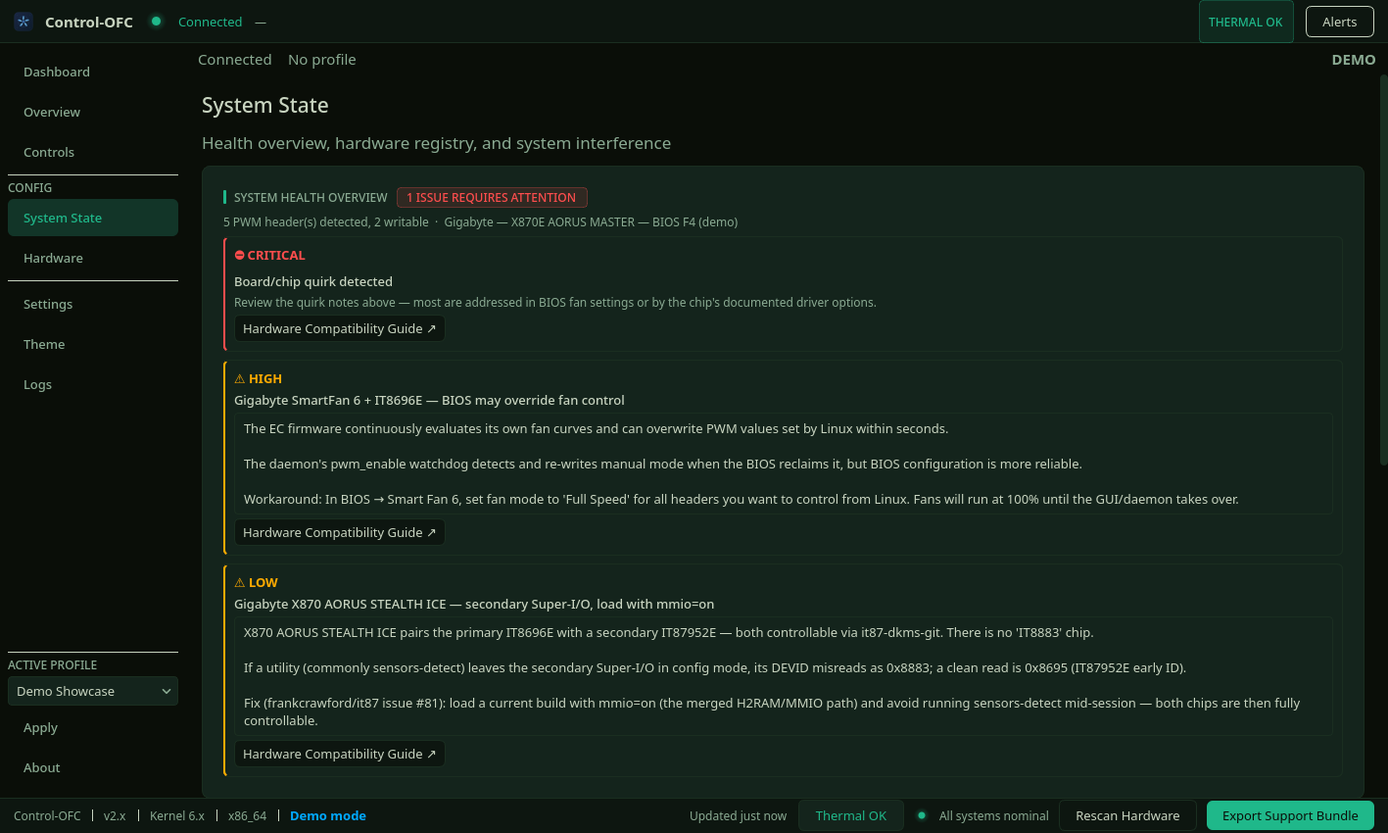
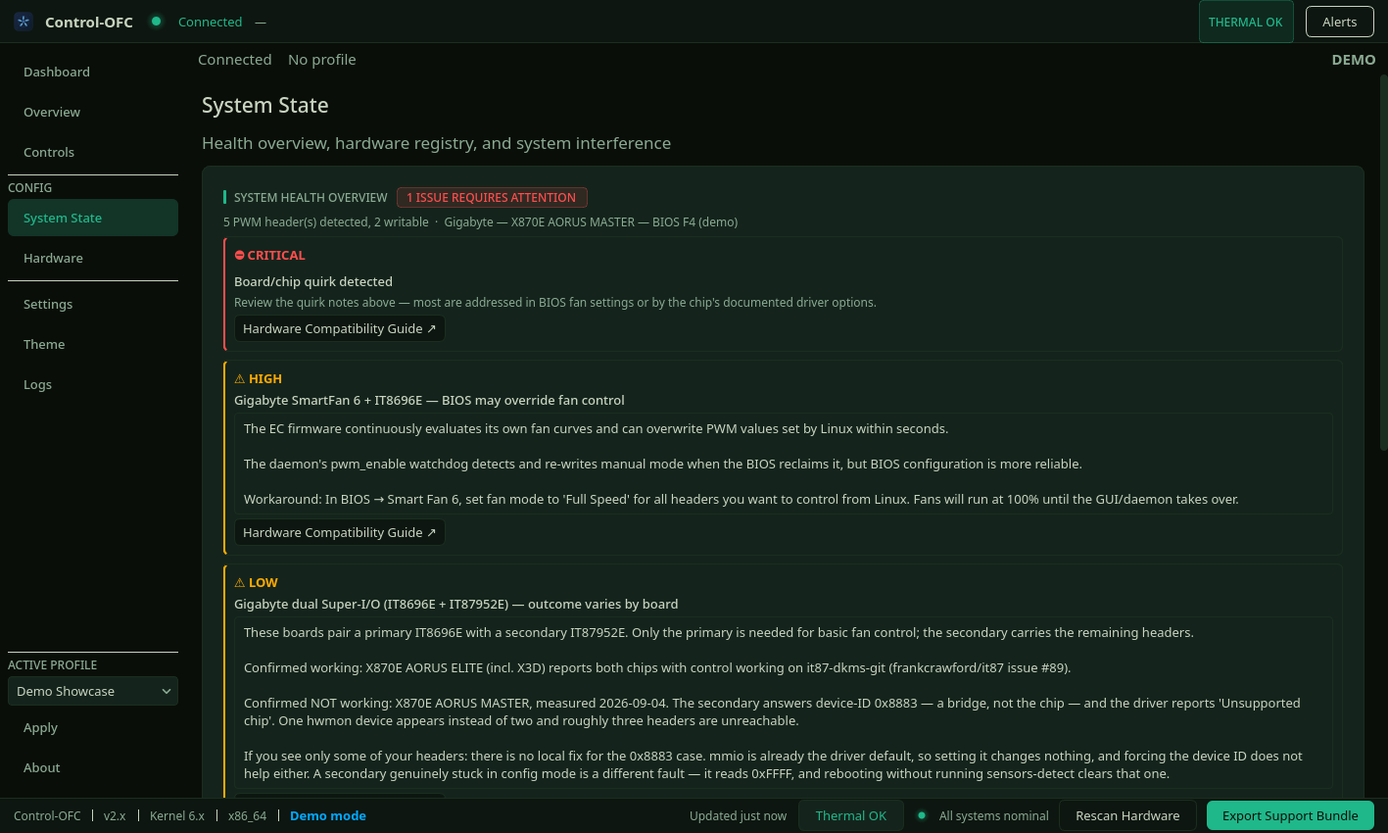
release: v2.57.6 — honest chip guidance for the X870E dual Super-I/O
Batches G and H of the /ofc:audit register triage (DEC-326). Text only: no
floor, threshold, route, capability flag or control behaviour changes.

The Hardware page no longer tells X870E owners their missing fan headers are a
fixable misconfiguration. The in-app guidance for device-ID 0x8883 said the
secondary Super-I/O was "stuck in config mode", recoverable with mmio=on;
measured on the affected hardware both halves are false — mmio is already the
driver default, and the upstream issue cited as the resolution is still open,
its reporter having applied exactly that advice and still having three fans and
a water pump non-functional. The entry now says there is no local fix, and
keeps the genuinely recoverable 0xFFFF case as the separate fault it is.

The dual-Super-I/O quirk names both outcomes rather than promising the good
one: X870E AORUS ELITE works with both chips controllable, X870E AORUS MASTER
cannot reach its secondary at all.

manual/hardware-troubleshooting.md's "only 5 of 8 headers show up" section now
splits three causes with a dmesg discriminator instead of a five-step remedy
that could not work on the board it named; docs/19, docs/21 and docs/22 stop
citing it87 issue #81 as a resolution. Corrections are bounded by board
pairing, not by family.

screenshots/auto/04_system_state.png recaptured for the corrected quirk card.

Pairs with control-ofc-daemon >= v2.11.0 (unchanged floor); ships alongside
daemon v2.35.3, which carries the daemon-side half.
[…]

Changed region(s): [[0.1863, 0.7953, 0.9315, 0.9482], [0.1863, 0.7035, 0.8694, 0.7647], [0.9936, 0.52, 1.0, 0.5812]]

diff --git a/README.md b/README.md
@@ -1,6 +1,6 @@
 # Control-OFC GUI
 
-**Latest release:** v2.57.5 — 2026-09-04. Pairs with `control-ofc-daemon` ≥ v2.11.0 (v2.16.0 or newer for the Settings ▸ Daemon Configuration card, v2.17.0 for the Dashboard's fan-control-engine health banner, v2.18.0 for Rescan Hardware to also look for an OpenFan controller, v2.21.0 for the Controls page's "Not controlled" badge, v2.22.0 for the live output figure on each Controls card and the Dashboard's unresolved-control warning, v2.23.0 for removing a profile search directory, v2.24.0 for the thermal-forcing verify refusal shown as a soft notice, v2.24.2 for the subsystem age shown as data freshness rather than poll time, v2.25.0 for the daemon to also distrust the widened `nct67xx` `CPUTIN` set the GUI warns about and to quarantine an implausibly-low CPU reading, v2.26.0 for the thermal ladder's forced duties to act as floors over profile output rather than replacements for it and for the emergency trip point to be derived per machine from the CPU's own reported ceiling, v2.27.0 for fan telemetry to be reported only where it was actually measured, v2.28.0 for per-channel PWM header roles and pump-safe fan identify; all stand down gracefully on older daemons). The v2.26.0 and v2.27.0 behaviours need no GUI support — nothing on the wire changed. The trip point is reported in a field the GUI already renders verbatim, and `rpm` was already optional with a fan's absence already meaning "not currently readable". v2.50.0 consumes the v2.28.0 `control.header_roles` capability: where the daemon classifies a header as a pump, the Fan Wizard says the pump's speed will change rather than that it will stop — and against any older daemon it keeps the "stop" wording, because that is what an older daemon actually does. v2.51.0 goes further and *writes* that capability: Configure AIO asks which header the pump is connected to and records it via `POST /config/header-role`, which is the only way a motherboard-connected AIO can be set up at all — its pump hangs off the Super-I/O chip like any other fan, so nothing can infer it. The same release offers three pump strategies (Automatic, Fixed speed, Custom curve) in place of fixed presets only, and retracts the claim that a pump must run at a constant speed. Against a pre-2.28.0 daemon the role step is hidden and the flow behaves exactly as v2.50.0 did. v2.52.0 adds **Characterise PWM Response** on the System State page — a deeper diagnostic beside the existing quick "Test PWM Control", which holds a header at a series of duties and reports **command acceptance, PWM readback and physical fan response as three separate verdicts**. That separation is the feature: a pump whose firmware drives itself during startup reports a perfectly correct PWM readback while its speed ignores the command, and a single pass/fail would call that a broken fan. It needs daemon v2.29.0 or newer and is hidden entirely without it, so against an older daemon this release behaves exactly as v2.51.0 did. v2.53.0 rebuilds the **Logs** page as a List + Inspector workflow: an activity strip showing event volume over time (click a column to filter to that slice), a dense two-line event list, newest first, with repeated events collapsed into one row, and a tabbed inspector holding the event's detail, its raw stored record, and the Daemon Status / Controller / GPU probes and system journal that used to sit in a strip along the bottom. Events now carry structured fields where the emitter genuinely had them — an alert's component, an exception's type, a rescan's header count — so related events can be correlated on something real rather than a source tag. **This release needs nothing new from the daemon**: no API, schema or contract change, and your saved log filters carry over. v2.53.1 fixes three defects found by an audit of that work: Characterise PWM Response could render a *different* header's sweep as this header's result, because the daemon serves one run at a time and the dialog never checked whose it was; the app's minimum window size was set to a width no page has ever fitted in, which is what squeezed the Logs toolbar's search box down to "Sea…" (**the minimum window width therefore grows to roughly 1400px**); and a restore the daemon deliberately skipped was reported as "Restoring the original speed failed — re-activate your profile", which is precisely the wrong advice when thermal safety is what skipped it. The last of those reads the daemon's new `restore_outcome` field and so words each reason properly against v2.30.0 or newer, keeping the previous message against anything older. v2.54.0 records a motherboard-connected cooler as one **cooling device** — pump header, radiator fans and temperature source saved as a named assembly rather than three coincidentally related channels — and stops the GUI re-deriving the pump's safety floor for itself: against a daemon ≥ v2.31.0 each header now reports the duty floor the daemon will actually enforce and whether it may be stopped at all, and the client-side reconstruction becomes a fallback for older daemons. **No floor changes** — the daemon ships generic device policies only, whose pump floor is the 30 % constant it already enforced. Naming a header as a cooler's pump confers no protection on its own; that is still the pump **role**, which Configure AIO assigns in the same flow. Against a pre-v2.31.0 daemon the whole surface is simply absent and nothing else changes. v2.55.0 adds the groundwork for **validation sessions** — a recording of what a cooler actually did, with the evidence to back it up: telemetry sampled once a second, a timeline of the things the daemon can genuinely observe (a profile activating, the BIOS taking a header back, a suspend, a thermal failsafe), and a typed summary that distinguishes *passed*, *observed*, *not tested* and *unavailable* rather than collapsing them into a verdict. It can also run the existing PWM verify and characterisation for you and attach their results as evidence. It shipped **without a user interface, deliberately** — the model, the API client and the JSON/CSV serializers only; nothing on any page changed, so upgrading was safe and invisible. v2.56.0 is the interface. The **Hardware** page becomes the place you see, understand and test your cooling hardware: a configured cooler now appears as one assembly — pump, radiator fans, control sensor, strategy, status — instead of a set of unrelated hwmon channel names, and every PWM header gets a card with its live values and an expandable engineering view (capabilities, kernel label, role, the duty floor the daemon enforces, whether stopping is prohibited). The PWM control test and the response characterisation move here from System State, which keeps them as an advanced shortcut — both pages run the same implementation. Characterisation now also reports **response and settling time** per step. Validation and startup/lifecycle recording get the dialog they were built for, with a findings summary that keeps *passed*, *observed*, *not tested* and *unavailable* distinct, and CSV/JSON export. **The most useful single change is that requested PWM and hardware readback are now shown as two numbers rather than one** — that is what lets you tell a failed write from a BIOS/EC reclaim from a device doing its own internal control, and it needs daemon v2.33.0 for the commanded value; against anything older the requested figure is labelled approximate rather than presented as fact. Nothing on this page writes PWM: every test runs inside the daemon, which keeps its lease, the pump floor and thermal protection in force throughout. v2.57.0 teaches the **Fan Wizard** what a liquid cooler is. A new step runs *before* any fan is stopped: it lists everything already known to be part of the cooling stack — a configured cooler's pump, radiator and auxiliary fans, plus any header carrying a pump or radiator role — each ticked to be left alone, and each untickable if you do want to identify it. It also lets you **name the pump**, which is the part that matters on most desktop boards: many Super-I/O chips publish no header names at all, so nothing — not the daemon, not this GUI — can work out which channel the pump is on, and until you say so every header looks identical and the wizard would stop your pump looking for it. Naming it here assigns the pump role and records the cooler's layout before the first fan is touched. The step appears whenever the daemon supports header roles (v2.28.0+), **including when nothing looks like an AIO yet** — that is deliberate, because that is exactly the machine that cannot detect one. The same release stops the Controls page treating a cooler's fans as loose channels: assigning a pump or radiator fan to an unrelated curve now names the device it belongs to and asks first. It is a soft check on both ways of adding a member, not a lock — a cooling device is a description, and your pump's real protection comes from its **role**, which applies whatever curve the fan is assigned to. GUI-only: no daemon release, nothing on the wire changed. v2.57.1 changes no shipped GUI code at all: it is the contract document, a changelog entry and one test, published as the GUI half of `control-ofc-daemon` v2.33.1 (DEC-320). That daemon release fixed two defects the GUI was on the receiving end of — `POST /config/cooling-device` rejected the OpenFan radiator fans this GUI's own picker offers, so the Fan Wizard's AIO step could not be completed with one on any machine with motherboard fan headers; and a validation session at its sample cap was written and then became permanently unreadable from two cooling-device members upward. **Both were daemon-side — the GUI was already correct and the daemon was rejecting what it offered — so upgrading the GUI alone fixes neither; take daemon v2.33.1.** The one new test pins the premise rather than a fix: if the radiator picker ever stops offering OpenFan outputs, the daemon's per-source membership check becomes dead code, and that test is what says so. The daemon floor is unchanged at v2.11.0. v2.57.2 and v2.57.3 change no shipped GUI code either: both are the contract document, a changelog entry and — in v2.57.3 — one new cross-repo parity oracle, published as the GUI half of `control-ofc-daemon` v2.34.0 and v2.35.0. The daemon changes they record are ones this GUI was already correct about. v2.34.0 (DEC-321) stopped a user-assigned pump role vanishing from the daemon's own `runtime.toml` unnoticed, and added a `runtime_config_degraded` field on `/status` and `/poll` saying so — **this release does not render it yet**; it also serialised `POST`/`DELETE /config/*` daemon-side, which matters because the Configure-AIO flow posts a header role and a cooling device in one user action, and against an older daemon the second write could drop the first. The GUI already issued those strictly sequentially, so it never raced itself, and `docs/08` now records that sequencing as load-bearing rather than incidental. v2.35.0 (DEC-322) made `stop_permitted` mean what the contract always said it meant — `!header_is_pump_protected` — after daemons 2.31.0–2.34.0 derived it from the cooling *device's* policy instead, advertising a radiator fan as unstoppable while identify stopped it and, in the dangerous direction, promising protection to a `pump_member` that had no pump role and was then driven to 0. **No GUI change was needed**: `pump_protection.py` already read the field as the semantics v2.35.0 restores. v2.57.3 adds the third cross-repo golden oracle, `header_role_classification.json`, which gates this GUI's hand-mirrored copy of the daemon's pump-label classification against the daemon's own — the two agreed, and what was missing was the gate: if the daemon learns a new pump-classifying label and this copy does not, the reconstruction returns "not protected" and the Fan Wizard offers to stop a real pump. **Both defects were daemon-side, so upgrading the GUI alone fixes neither — take daemon v2.35.0.** v2.57.4 is the same shape again — the contract document and a changelog entry, no shipped GUI code — published as the GUI half of `control-ofc-daemon` v2.35.1 (DEC-323), which stopped a validation session outliving the characterisation it had started. Ending a session used to finalise the record and leave the sweep running, still driving the header and still holding the profile engine’s write-pause for up to five minutes; the daemon now cancels that sweep, fenced on the run the session itself started, so a characterisation you began outside the session is never aborted. **No GUI change was needed**: the characterisation view already words a `cancelled` run as a cancellation rather than a hardware failure, which is exactly what it now is. Two things a client should know are recorded in `docs/08`: that run reports `cancelled` rather than `complete`, with **no capability flag separating it from the older behaviour**, and it stays `running` for up to one settle (15 s) after the session has already returned its summary, because the cancel is cooperative; and the two session-finalise routes can now answer `500 internal_error`, which means the session is **still installed and still recording** rather than gone. **The fixes are daemon-side, so upgrading the GUI alone changes nothing — take daemon v2.35.1.** The daemon floor is unchanged at v2.11.0. v2.57.5 is the first release since v2.57.0 to change shipped GUI code, and it is bug fixes only (DEC-325): the **Configure AIO** flow seeded its curve calibration from hardware detection rather than from the sensor you actually picked, so choosing CPU package on a machine that *also* has a coolant sensor applied the coolant calibration to a CPU-bound curve — measured at **100% fan output by 55 °C** on the radiator curve, i.e. maximum fans during ordinary desktop use; the **Logs** activity strip drew no keyboard focus ring while the feed was empty, which is every fresh launch, despite being fully operable from the keyboard; and activating a related event could jump somewhere unrelated or raise inside a Qt callback, because the list was wired to navigate on both `itemActivated` and `itemClicked` and the navigation rebuilds that very list. Related events are now activated with **Enter or a double-click** (single click still works on KDE Plasma and any desktop that opens items that way). The rest of the release is test coverage for six call sites whose extracted rules were tested and whose only production caller was not (DEC-324). No floor, threshold, route or capability change; the daemon floor is unchanged at v2.11.0. See [`CHANGELOG.md`](CHANGELOG.md) for the full history.
+**Latest release:** v2.57.6 — 2026-09-04. Pairs with `control-ofc-daemon` ≥ v2.11.0 (v2.16.0 or newer for the Settings ▸ Daemon Configuration card, v2.17.0 for the Dashboard's fan-control-engine health banner, v2.18.0 for Rescan Hardware to also look for an OpenFan controller, v2.21.0 for the Controls page's "Not controlled" badge, v2.22.0 for the live output figure on each Controls card and the Dashboard's unresolved-control warning, v2.23.0 for removing a profile search directory, v2.24.0 for the thermal-forcing verify refusal shown as a soft notice, v2.24.2 for the subsystem age shown as data freshness rather than poll time, v2.25.0 for the daemon to also distrust the widened `nct67xx` `CPUTIN` set the GUI warns about and to quarantine an implausibly-low CPU reading, v2.26.0 for the thermal ladder's forced duties to act as floors over profile output rather than replacements for it and for the emergency trip point to be derived per machine from the CPU's own reported ceiling, v2.27.0 for fan telemetry to be reported only where it was actually measured, v2.28.0 for per-channel PWM header roles and pump-safe fan identify; all stand down gracefully on older daemons). The v2.26.0 and v2.27.0 behaviours need no GUI support — nothing on the wire changed. The trip point is reported in a field the GUI already renders verbatim, and `rpm` was already optional with a fan's absence already meaning "not currently readable". v2.50.0 consumes the v2.28.0 `control.header_roles` capability: where the daemon classifies a header as a pump, the Fan Wizard says the pump's speed will change rather than that it will stop — and against any older daemon it keeps the "stop" wording, because that is what an older daemon actually does. v2.51.0 goes further and *writes* that capability: Configure AIO asks which header the pump is connected to and records it via `POST /config/header-role`, which is the only way a motherboard-connected AIO can be set up at all — its pump hangs off the Super-I/O chip like any other fan, so nothing can infer it. The same release offers three pump strategies (Automatic, Fixed speed, Custom curve) in place of fixed presets only, and retracts the claim that a pump must run at a constant speed. Against a pre-2.28.0 daemon the role step is hidden and the flow behaves exactly as v2.50.0 did. v2.52.0 adds **Characterise PWM Response** on the System State page — a deeper diagnostic beside the existing quick "Test PWM Control", which holds a header at a series of duties and reports **command acceptance, PWM readback and physical fan response as three separate verdicts**. That separation is the feature: a pump whose firmware drives itself during startup reports a perfectly correct PWM readback while its speed ignores the command, and a single pass/fail would call that a broken fan. It needs daemon v2.29.0 or newer and is hidden entirely without it, so against an older daemon this release behaves exactly as v2.51.0 did. v2.53.0 rebuilds the **Logs** page as a List + Inspector workflow: an activity strip showing event volume over time (click a column to filter to that slice), a dense two-line event list, newest first, with repeated events collapsed into one row, and a tabbed inspector holding the event's detail, its raw stored record, and the Daemon Status / Controller / GPU probes and system journal that used to sit in a strip along the bottom. Events now carry structured fields where the emitter genuinely had them — an alert's component, an exception's type, a rescan's header count — so related events can be correlated on something real rather than a source tag. **This release needs nothing new from the daemon**: no API, schema or contract change, and your saved log filters carry over. v2.53.1 fixes three defects found by an audit of that work: Characterise PWM Response could render a *different* header's sweep as this header's result, because the daemon serves one run at a time and the dialog never checked whose it was; the app's minimum window size was set to a width no page has ever fitted in, which is what squeezed the Logs toolbar's search box down to "Sea…" (**the minimum window width therefore grows to roughly 1400px**); and a restore the daemon deliberately skipped was reported as "Restoring the original speed failed — re-activate your profile", which is precisely the wrong advice when thermal safety is what skipped it. The last of those reads the daemon's new `restore_outcome` field and so words each reason properly against v2.30.0 or newer, keeping the previous message against anything older. v2.54.0 records a motherboard-connected cooler as one **cooling device** — pump header, radiator fans and temperature source saved as a named assembly rather than three coincidentally related channels — and stops the GUI re-deriving the pump's safety floor for itself: against a daemon ≥ v2.31.0 each header now reports the duty floor the daemon will actually enforce and whether it may be stopped at all, and the client-side reconstruction becomes a fallback for older daemons. **No floor changes** — the daemon ships generic device policies only, whose pump floor is the 30 % constant it already enforced. Naming a header as a cooler's pump confers no protection on its own; that is still the pump **role**, which Configure AIO assigns in the same flow. Against a pre-v2.31.0 daemon the whole surface is simply absent and nothing else changes. v2.55.0 adds the groundwork for **validation sessions** — a recording of what a cooler actually did, with the evidence to back it up: telemetry sampled once a second, a timeline of the things the daemon can genuinely observe (a profile activating, the BIOS taking a header back, a suspend, a thermal failsafe), and a typed summary that distinguishes *passed*, *observed*, *not tested* and *unavailable* rather than collapsing them into a verdict. It can also run the existing PWM verify and characterisation for you and attach their results as evidence. It shipped **without a user interface, deliberately** — the model, the API client and the JSON/CSV serializers only; nothing on any page changed, so upgrading was safe and invisible. v2.56.0 is the interface. The **Hardware** page becomes the place you see, understand and test your cooling hardware: a configured cooler now appears as one assembly — pump, radiator fans, control sensor, strategy, status — instead of a set of unrelated hwmon channel names, and every PWM header gets a card with its live values and an expandable engineering view (capabilities, kernel label, role, the duty floor the daemon enforces, whether stopping is prohibited). The PWM control test and the response characterisation move here from System State, which keeps them as an advanced shortcut — both pages run the same implementation. Characterisation now also reports **response and settling time** per step. Validation and startup/lifecycle recording get the dialog they were built for, with a findings summary that keeps *passed*, *observed*, *not tested* and *unavailable* distinct, and CSV/JSON export. **The most useful single change is that requested PWM and hardware readback are now shown as two numbers rather than one** — that is what lets you tell a failed write from a BIOS/EC reclaim from a device doing its own internal control, and it needs daemon v2.33.0 for the commanded value; against anything older the requested figure is labelled approximate rather than presented as fact. Nothing on this page writes PWM: every test runs inside the daemon, which keeps its lease, the pump floor and thermal protection in force throughout. v2.57.0 teaches the **Fan Wizard** what a liquid cooler is. A new step runs *before* any fan is stopped: it lists everything already known to be part of the cooling stack — a configured cooler's pump, radiator and auxiliary fans, plus any header carrying a pump or radiator role — each ticked to be left alone, and each untickable if you do want to identify it. It also lets you **name the pump**, which is the part that matters on most desktop boards: many Super-I/O chips publish no header names at all, so nothing — not the daemon, not this GUI — can work out which channel the pump is on, and until you say so every header looks identical and the wizard would stop your pump looking for it. Naming it here assigns the pump role and records the cooler's layout before the first fan is touched. The step appears whenever the daemon supports header roles (v2.28.0+), **including when nothing looks like an AIO yet** — that is deliberate, because that is exactly the machine that cannot detect one. The same release stops the Controls page treating a cooler's fans as loose channels: assigning a pump or radiator fan to an unrelated curve now names the device it belongs to and asks first. It is a soft check on both ways of adding a member, not a lock — a cooling device is a description, and your pump's real protection comes from its **role**, which applies whatever curve the fan is assigned to. GUI-only: no daemon release, nothing on the wire changed. v2.57.1 changes no shipped GUI code at all: it is the contract document, a changelog entry and one test, published as the GUI half of `control-ofc-daemon` v2.33.1 (DEC-320). That daemon release fixed two defects the GUI was on the receiving end of — `POST /config/cooling-device` rejected the OpenFan radiator fans this GUI's own picker offers, so the Fan Wizard's AIO step could not be completed with one on any machine with motherboard fan headers; and a validation session at its sample cap was written and then became permanently unreadable from two cooling-device members upward. **Both were daemon-side — the GUI was already correct and the daemon was rejecting what it offered — so upgrading the GUI alone fixes neither; take daemon v2.33.1.** The one new test pins the premise rather than a fix: if the radiator picker ever stops offering OpenFan outputs, the daemon's per-source membership check becomes dead code, and that test is what says so. The daemon floor is unchanged at v2.11.0. v2.57.2 and v2.57.3 change no shipped GUI code either: both are the contract document, a changelog entry and — in v2.57.3 — one new cross-repo parity oracle, published as the GUI half of `control-ofc-daemon` v2.34.0 and v2.35.0. The daemon changes they record are ones this GUI was already correct about. v2.34.0 (DEC-321) stopped a user-assigned pump role vanishing from the daemon's own `runtime.toml` unnoticed, and added a `runtime_config_degraded` field on `/status` and `/poll` saying so — **this release does not render it yet**; it also serialised `POST`/`DELETE /config/*` daemon-side, which matters because the Configure-AIO flow posts a header role and a cooling device in one user action, and against an older daemon the second write could drop the first. The GUI already issued those strictly sequentially, so it never raced itself, and `docs/08` now records that sequencing as load-bearing rather than incidental. v2.35.0 (DEC-322) made `stop_permitted` mean what the contract always said it meant — `!header_is_pump_protected` — after daemons 2.31.0–2.34.0 derived it from the cooling *device's* policy instead, advertising a radiator fan as unstoppable while identify stopped it and, in the dangerous direction, promising protection to a `pump_member` that had no pump role and was then driven to 0. **No GUI change was needed**: `pump_protection.py` already read the field as the semantics v2.35.0 restores. v2.57.3 adds the third cross-repo golden oracle, `header_role_classification.json`, which gates this GUI's hand-mirrored copy of the daemon's pump-label classification against the daemon's own — the two agreed, and what was missing was the gate: if the daemon learns a new pump-classifying label and this copy does not, the reconstruction returns "not protected" and the Fan Wizard offers to stop a real pump. **Both defects were daemon-side, so upgrading the GUI alone fixes neither — take daemon v2.35.0.** v2.57.4 is the same shape again — the contract document and a changelog entry, no shipped GUI code — published as the GUI half of `control-ofc-daemon` v2.35.1 (DEC-323), which stopped a validation session outliving the characterisation it had started. Ending a session used to finalise the record and leave the sweep running, still driving the header and still holding the profile engine’s write-pause for up to five minutes; the daemon now cancels that sweep, fenced on the run the session itself started, so a characterisation you began outside the session is never aborted. **No GUI change was needed**: the characterisation view already words a `cancelled` run as a cancellation rather than a hardware failure, which is exactly what it now is. Two things a client should know are recorded in `docs/08`: that run reports `cancelled` rather than `complete`, with **no capability flag separating it from the older behaviour**, and it stays `running` for up to one settle (15 s) after the session has already returned its summary, because the cancel is cooperative; and the two session-finalise routes can now answer `500 internal_error`, which means the session is **still installed and still recording** rather than gone. **The fixes are daemon-side, so upgrading the GUI alone changes nothing — take daemon v2.35.1.** The daemon floor is unchanged at v2.11.0. v2.57.5 is the first release since v2.57.0 to change shipped GUI code, and it is bug fixes only (DEC-325): the **Configure AIO** flow seeded its curve calibration from hardware detection rather than from the sensor you actually picked, so choosing CPU package on a machine that *also* has a coolant sensor applied the coolant calibration to a CPU-bound curve — measured at **100% fan output by 55 °C** on the radiator curve, i.e. maximum fans during ordinary desktop use; the **Logs** activity strip drew no keyboard focus ring while the feed was empty, which is every fresh launch, despite being fully operable from the keyboard; and activating a related event could jump somewhere unrelated or raise inside a Qt callback, because the list was wired to navigate on both `itemActivated` and `itemClicked` and the navigation rebuilds that very list. Related events are now activated with **Enter or a double-click** (single click still works on KDE Plasma and any desktop that opens items that way). The rest of the release is test coverage for six call sites whose extracted rules were tested and whose only production caller was not (DEC-324). No floor, threshold, route or capability change; the daemon floor is unchanged at v2.11.0. v2.57.6 corrects what the app and the manual say about a fan-header failure this project had described wrongly in nine places, and it is text only — **no floor, threshold, route, capability flag or control behaviour changes**, and the daemon floor is unchanged at v2.11.0. The Hardware page no longer tells X870E owners their missing fan headers are a fixable misconfiguration: the in-app guidance for device-ID `0x8883` said the secondary Super-I/O was "stuck in config mode" and recoverable by loading the driver with `mmio=on`, and measured on the affected hardware both halves are false — `mmio` is already the driver default, and the upstream issue cited as the resolution is still open, its reporter having applied exactly that advice and still having three fans and a water pump non-functional. The entry now says there is **no local fix**, which is the honest answer, and keeps the genuinely recoverable `0xFFFF` case as the separate fault it is. The dual-Super-I/O quirk reports **both** outcomes instead of promising the good one — it fires for every Gigabyte board with an IT8696E, and X870E AORUS ELITE works with both chips controllable while X870E AORUS MASTER cannot reach its secondary at all. `manual/hardware-troubleshooting.md`'s "only 5 of 8 headers show up" section gave a five-step remedy that could not work on the board it named; it now splits three distinct causes, gives a one-line `dmesg` check to tell them apart, and states plainly which one has no fix. `docs/19`, `docs/21` and `docs/22` no longer cite upstream it87 issue #81 as a resolution — they record the failure — and the corrections are bounded **by board pairing, not by family**, so the "2026-03+ builds work by default" claim is left standing for the pairings where it is actually evidenced. It ships alongside `control-ofc-daemon` v2.35.3, which makes the matching correction to the daemon's own chip database and readiness hints and, separately, stops a fan at 100% on an ITE Super-I/O being misreported as a BIOS reclaim — a false positive that aborted PWM characterisation sweeps, failed pump verifies and wrote phantom findings into validation reports. **That half is daemon-side, so upgrading the GUI alone does not fix it — take daemon v2.35.3.** See [`CHANGELOG.md`](CHANGELOG.md) for the full history.
 
 Desktop fan control interface for Linux. Communicates with the [`control-ofc-daemon`](https://github.com/Plan-B-Development/control-ofc-daemon) service to monitor temperatures, manage fan speeds, and apply custom fan curves.
 

diff --git a/CHANGELOG.md b/CHANGELOG.md
@@ -1,8 +1,9 @@
 # Changelog
 
-## [Unreleased]
+## [2.57.6] — 2026-09-04
 
-Batches G and H of the `/ofc:audit` register triage (DEC-326). The GUI's share is
+Pairs with `control-ofc-daemon` >= v2.11.0 (unchanged floor). Batches G and H of
+the `/ofc:audit` register triage (DEC-326). The GUI's share is
 **one corrected in-app chip-guidance entry** and the user-facing documentation
 that described the same hardware wrongly. No floor, threshold, route, capability
 flag or control behaviour changes.
